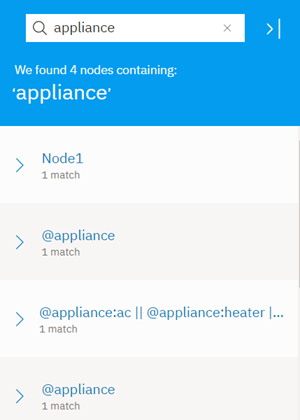
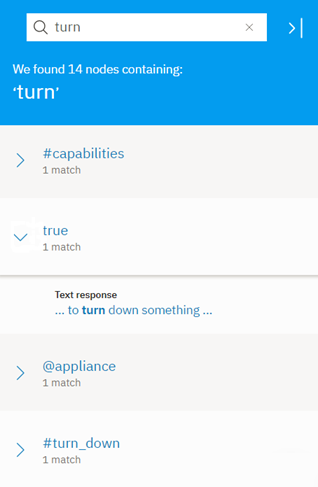
Dialog search

diff --git a/dialog-build.md b/dialog-build.md
@@ -2,7 +2,7 @@
 
 copyright:
   years: 2015, 2018
-lastupdated: "2018-03-14"
+lastupdated: "2018-04-03"
 
 ---
 
@@ -154,6 +154,23 @@ As you make changes to your dialog, you can test it at any time to see how it re
 If you determine that the wrong intents or entities are being recognized, you might need to modify your intent or entity definitions.
 
 If the correct intents and entities are being recognized, but the wrong nodes are being triggered in your dialog, make sure your conditions are written properly.
+
+## Searching your dialog
+{: #search}
+
+You can search the dialog to find one or more dialog nodes that mention a given word or phrase.
+
+1.  Select the Search icon: ![Search icon](images/search_icon.png)
+
+1.  Enter a search term or phrase.
+
+    **Note**: The first time you search, an index is created. You might be asked to wait while the text in your dialog nodes is indexed.
+
+### Results
+
+Nodes containing your search term, with corresponding examples, are shown. Select any result to open it for editing.
+
+  ![Intent search return](images/search_dialog.png)
 
 ## Copying a dialog node
 {: #copy-node}
